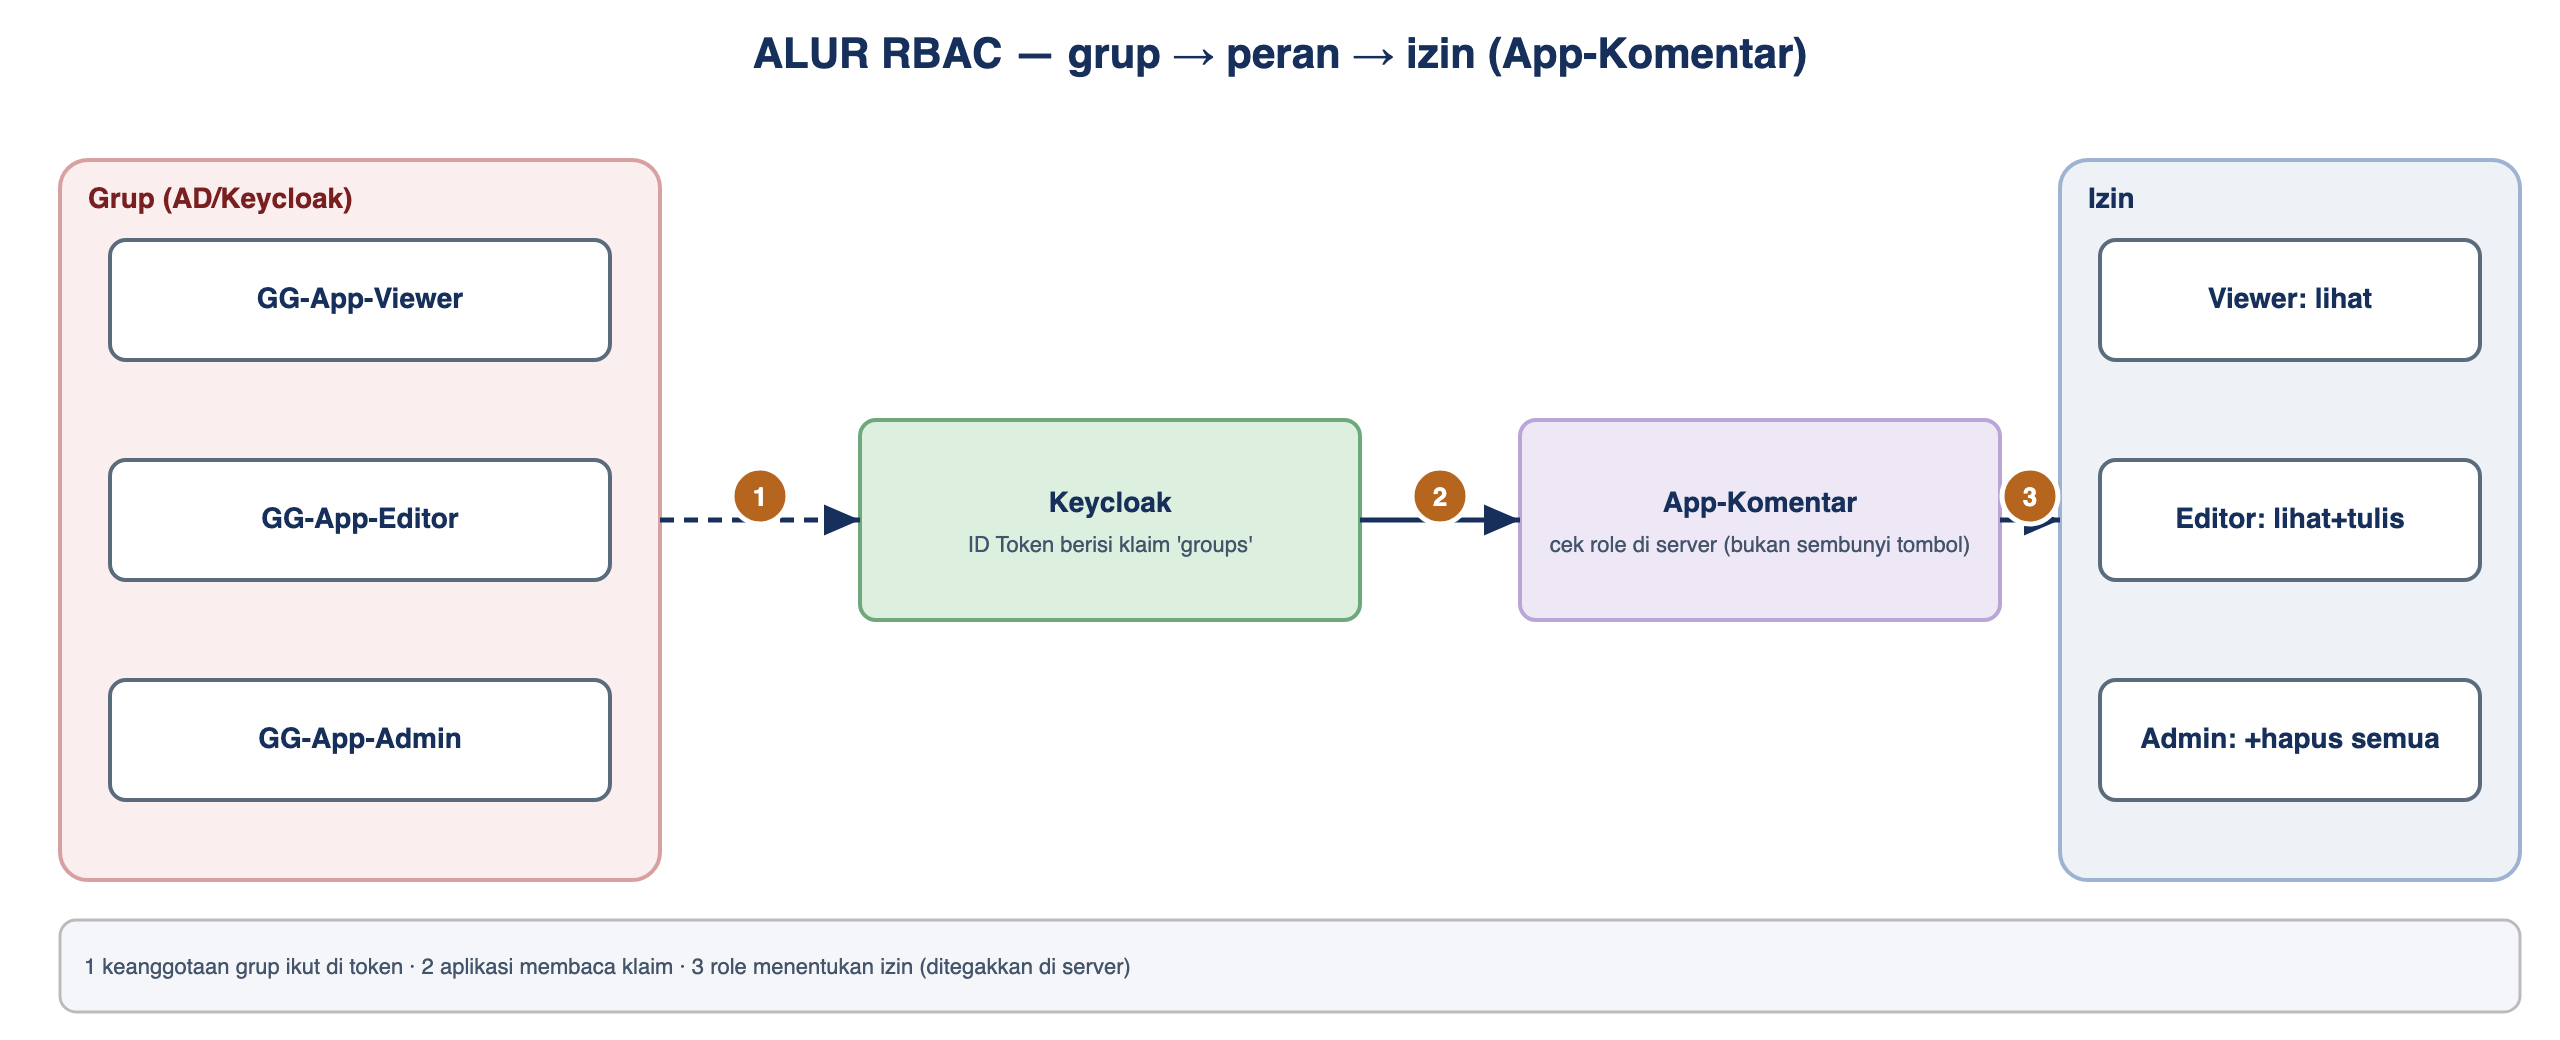
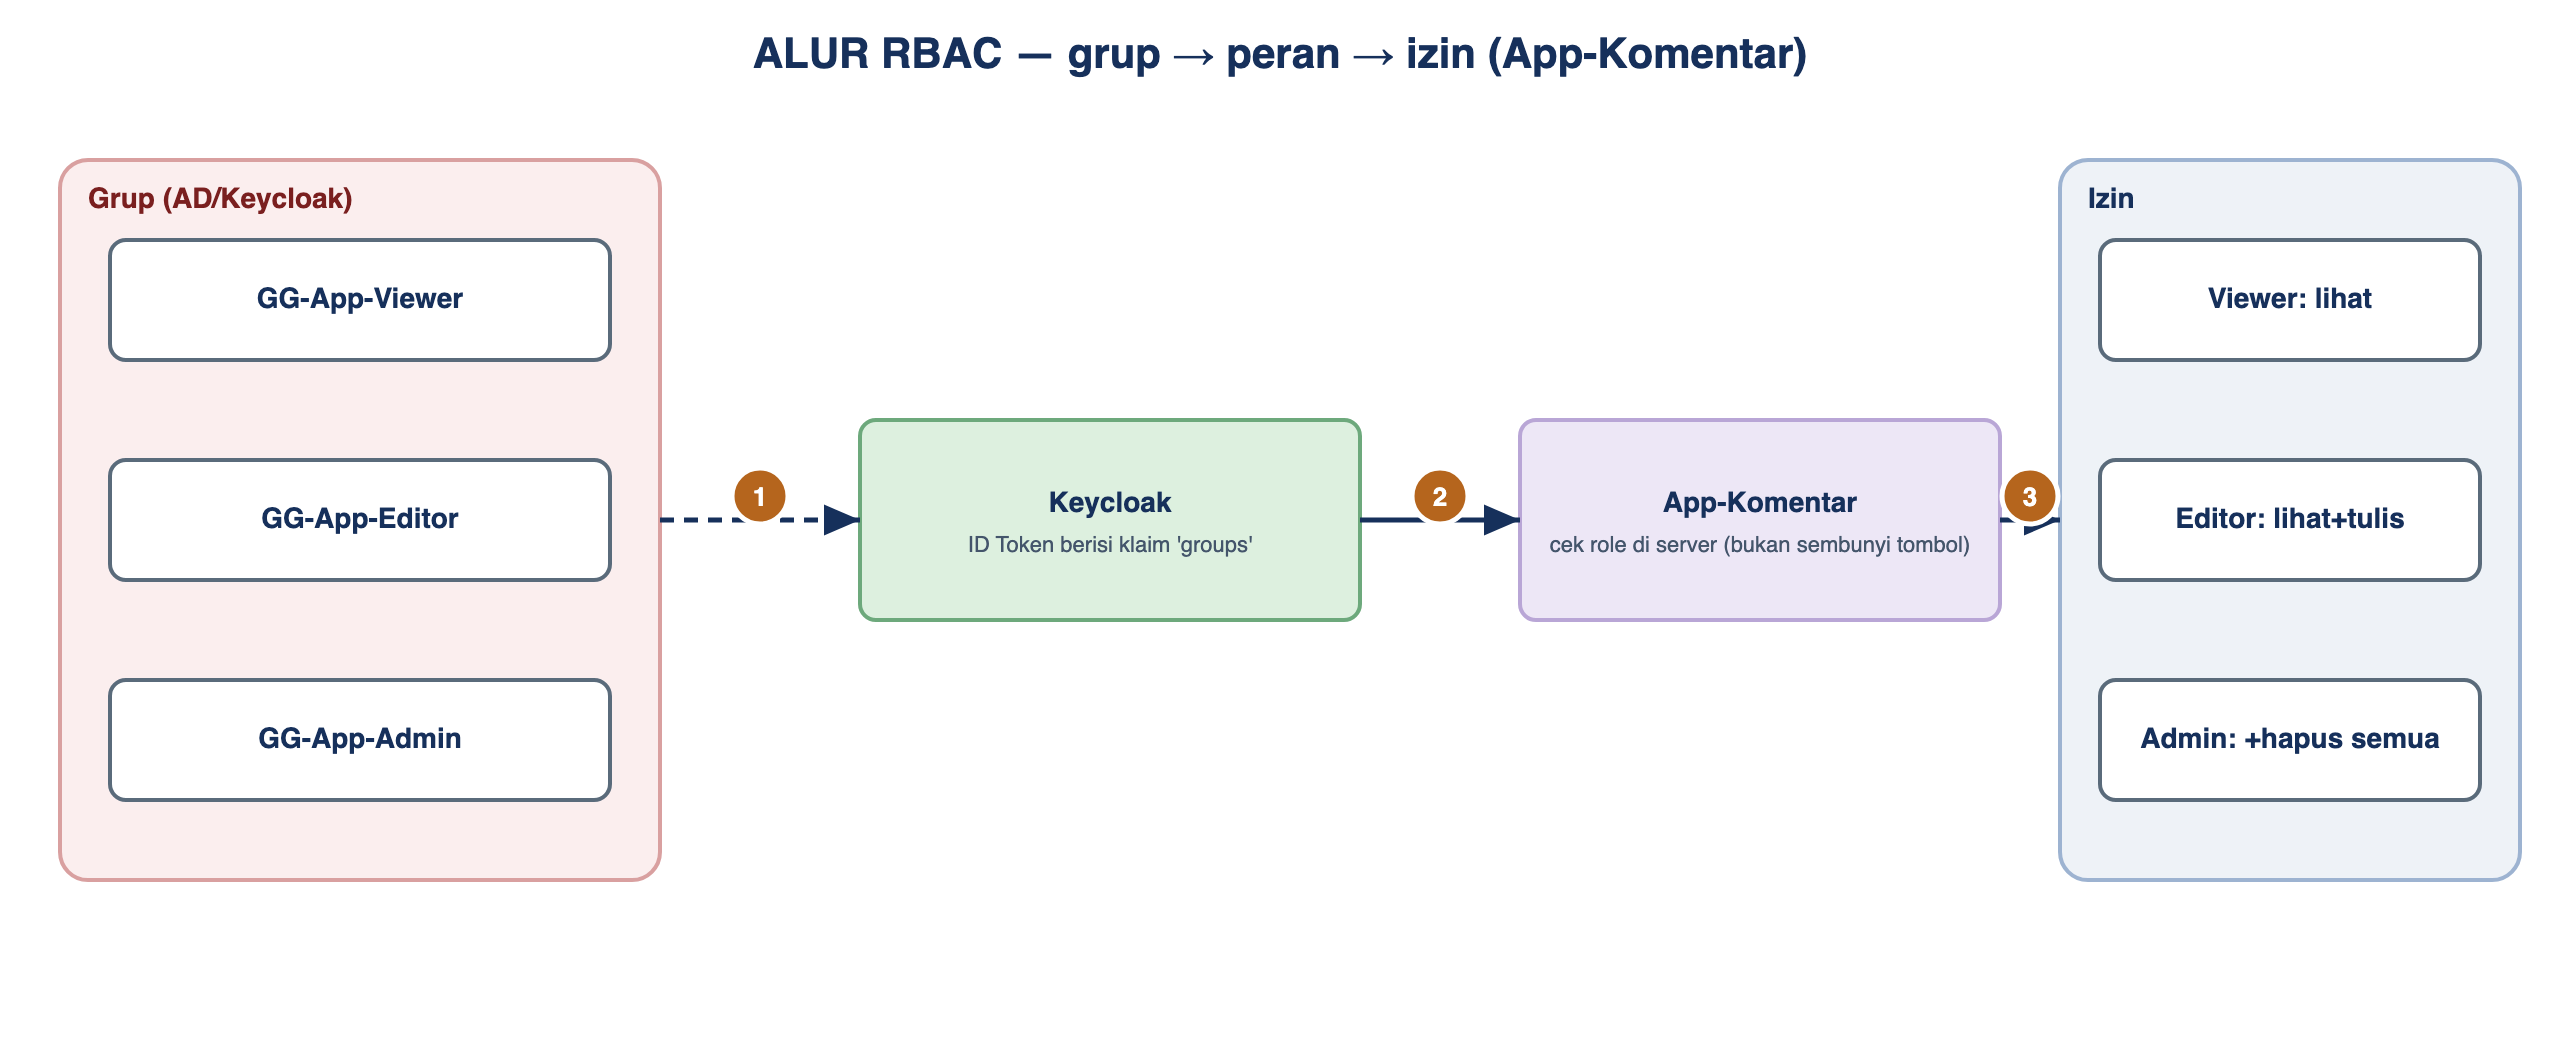
Pisahkan legenda dari gambar (jadikan teks README) + ganti diagram SSH bastion
- Legenda dihapus dari dalam semua diagram alur (SSO, RBAC, PAM, pipeline, Kerberoasting,
  Pass-the-Hash) → ditulis sebagai teks di bawah tiap gambar di README
- Sesi 3 gambar terakhir: transkrip ssh-bastion diganti diagram alur 'Akses SSH via Bastion'
  (bergaya konsisten, bernomor 1–5) + Agenda Aktivitas
- Blok MITIGASI/DETEKSI tetap di dalam gambar Kerberoasting/PtH (konten, bukan legenda)

Changed region(s): [[0.0312, 0.9231, 0.9688, 0.9846], [0.0312, 0.8615, 0.9688, 0.8923]]

diff --git a/sesi-3-pam/README.md b/sesi-3-pam/README.md
@@ -40,6 +40,8 @@ langsung ke server tanpa jejak = sulit diaudit. PAM menutup keduanya.
 
 ![Alur PAM: SSO + MFA → Warpgate (bastion) → target; OpenBao untuk kredensial & SSH CA](gambar/alur-pam.png)
 
+*Legenda: penuh = akses/sesi; putus-putus = SSO/auth & kredensial; teal = log. Nomor dijelaskan pada Agenda Aktivitas di bawah.*
+
 **Agenda Aktivitas (nomor pada diagram):**
 1. Admin login ke **bastion Warpgate**.
 2. Warpgate meneruskan autentikasi ke **Keycloak** (SSO OIDC + MFA).
@@ -124,7 +126,16 @@ terbatas, dan aktifkan **perekaman sesi**:
 Peserta tidak SSH langsung ke server — selalu lewat bastion. Format Warpgate memakai
 `user:target@bastion`; sesi direkam dan bisa diputar ulang di web UI:
 
-![Terminal peserta — SSH ke srv-app01 melalui bastion Warpgate (port 2222)](gambar/ssh-bastion.png)
+![Diagram akses SSH ke srv-app01 melalui bastion Warpgate (SSO+MFA, SSH CA, rekam sesi)](gambar/ssh-bastion.png)
+
+*Legenda: penuh = koneksi/sesi; putus-putus = SSO/MFA & permintaan sertifikat; teal = rekaman sesi untuk audit.*
+
+**Agenda Aktivitas (nomor pada diagram):**
+1. Peserta `ssh -p 2222 <user>:srv-app01@pam.iamlab.test` ke **bastion**.
+2. Warpgate meminta autentikasi via **Keycloak** (SSO OIDC + MFA).
+3. Warpgate meminta **sertifikat SSH** berumur pendek ke **OpenBao** (SSH CA).
+4. Sesi diteruskan ke **srv-app01**.
+5. Sesi **direkam** → dapat diputar ulang & diaudit.
 
 ```bash
 ssh -p 2222 <user>:srv-app01@pam.iamlab.test     # bastion mencegat, minta SSO/MFA, lalu teruskan

diff --git a/sesi-2-sso-mfa/README.md b/sesi-2-sso-mfa/README.md
@@ -38,6 +38,8 @@ jumlah sandi, memusatkan kebijakan & audit, dan memudahkan penonaktifan akun ser
 
 ![Alur SSO: aplikasi → Keycloak → federasi LDAP AD → MFA → token/assertion](gambar/alur-sso.png)
 
+*Legenda: garis penuh = langkah utama; putus-putus = redirect/token & sesi; teal = jejak audit. Nomor dijelaskan pada Agenda Aktivitas di bawah.*
+
 **Agenda Aktivitas (nomor pada diagram):**
 1. Pengguna membuka aplikasi (akses `/`).
 2. Aplikasi mengarahkan ke Keycloak — OIDC *Authorization Code + PKCE* atau SAML *AuthnRequest*.
@@ -67,6 +69,8 @@ membaca klaim itu untuk menentukan izin. *Analogi:* gelang berwarna yang menentu
 panggung mana yang boleh dimasuki.
 
 ![Alur RBAC App-Komentar: grup AD/Keycloak → klaim token → izin aplikasi](gambar/alur-rbac.png)
+
+*Legenda: putus-putus = klaim grup dalam token; nomor 1–3 = urutan grup → token → izin.*
 
 *Gambar: grup tempat pengguna berada (Viewer/Editor/Admin) ikut dalam token sebagai klaim `groups`; aplikasi membaca klaim itu untuk memutuskan tombol & aksi yang boleh.*
 

diff --git a/sesi-1-direktori-gpo/README.md b/sesi-1-direktori-gpo/README.md
@@ -80,6 +80,8 @@ lalu penyerang menebak sandi itu **luring** (di luar jaringan, tanpa menyentuh D
 
 ![Skema Kerberoasting (ringkas) + titik mitigasi & deteksi](gambar/kerberoasting-skema.png)
 
+*Legenda: nomor 1–3 = langkah (konsep); blok hijau = mitigasi; blok teal = deteksi.*
+
 *Analogi:* meminjam gembok resmi, membawanya pulang, mencoba ribuan kunci di rumah.
 **Mitigasi:** sandi akun layanan sangat panjang/acak atau **gMSA**, dan **Kerberos
 AES-only** sehingga tiket RC4 lemah tak terbit. **Deteksi:** event 4769 enctype `0x17`
@@ -89,6 +91,8 @@ dari akun non-mesin; akun umpan (*honey SPN*).
 dari memori, lalu memakainya untuk autentikasi ke host lain **tanpa tahu sandi aslinya**.
 
 ![Skema Pass-the-Hash + titik mitigasi & deteksi](gambar/pass-the-hash.png)
+
+*Legenda: nomor 1–3 = langkah serangan (konsep); blok hijau = mitigasi; blok teal = deteksi.*
 
 *Analogi:* mencuri cetakan sidik jari lalu memakainya di pemindai lain. **Mitigasi:**
 sandi admin lokal unik (**Windows LAPS**), isolasi tier, Protected Users/Credential

diff --git a/sesi-4-audit-monitoring/README.md b/sesi-4-audit-monitoring/README.md
@@ -66,6 +66,8 @@ mem-*parse*, memberi label → **Loki** menyimpan → **Grafana** menampilkan & 
 
 ![Pipeline log identitas: sumber → Alloy → Loki → Grafana → notifikasi](gambar/pipeline-log.png)
 
+*Legenda: teal = aliran log; label hanya service/event (low-cardinality). Nomor dijelaskan pada Agenda Aktivitas di bawah.*
+
 **Agenda Aktivitas (nomor pada diagram):**
 1. Sumber log (Windows AD, Keycloak, OpenBao, Warpgate/sshd, Caddy) mengirim ke **Alloy**.
 2. Alloy mem-*parse* & memberi label (hanya `service`/`event`) lalu mengirim ke **Loki**.
